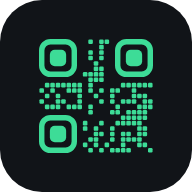
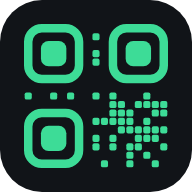
アイコンの模様を大きくする (#2)
* Playストア公開準備：PNGアイコン・manifest整備とプライバシーポリシー追加

- 192/512のPNGアイコン（通常・maskable）を追加し、manifestにid・説明・言語・向き・カテゴリを追加
- privacy.html を追加し、履歴画面の下からリンク
- Service Worker のキャッシュを v6 に更新

Claude-Session: https://claude.ai/code/session_011kUTucjEwmxXiLkZdYSVi6

* アイコンを新デザイン（細かいQR模様・角丸の目印）に差し替え

Claude-Session: https://claude.ai/code/session_011kUTucjEwmxXiLkZdYSVi6

* アイコンの模様を大きく（17マス・表示範囲を拡大）

Claude-Session: https://claude.ai/code/session_011kUTucjEwmxXiLkZdYSVi6

---------

diff --git a/sw.js b/sw.js
@@ -1,5 +1,5 @@
 // オフラインでも開けるようにファイルをキャッシュする
-const CACHE = 'qr-reader-v7';
+const CACHE = 'qr-reader-v8';
 const FILES = ['./', 'index.html', 'style.css', 'app.js', 'jsQR.js', 'manifest.json', 'icon.svg', 'privacy.html', 'icons/icon-192.png', 'icons/icon-512.png'];
 self.addEventListener('install', (e) => { e.waitUntil(caches.open(CACHE).then((c) => c.addAll(FILES))); self.skipWaiting(); });
 self.addEventListener('activate', (e) => {
